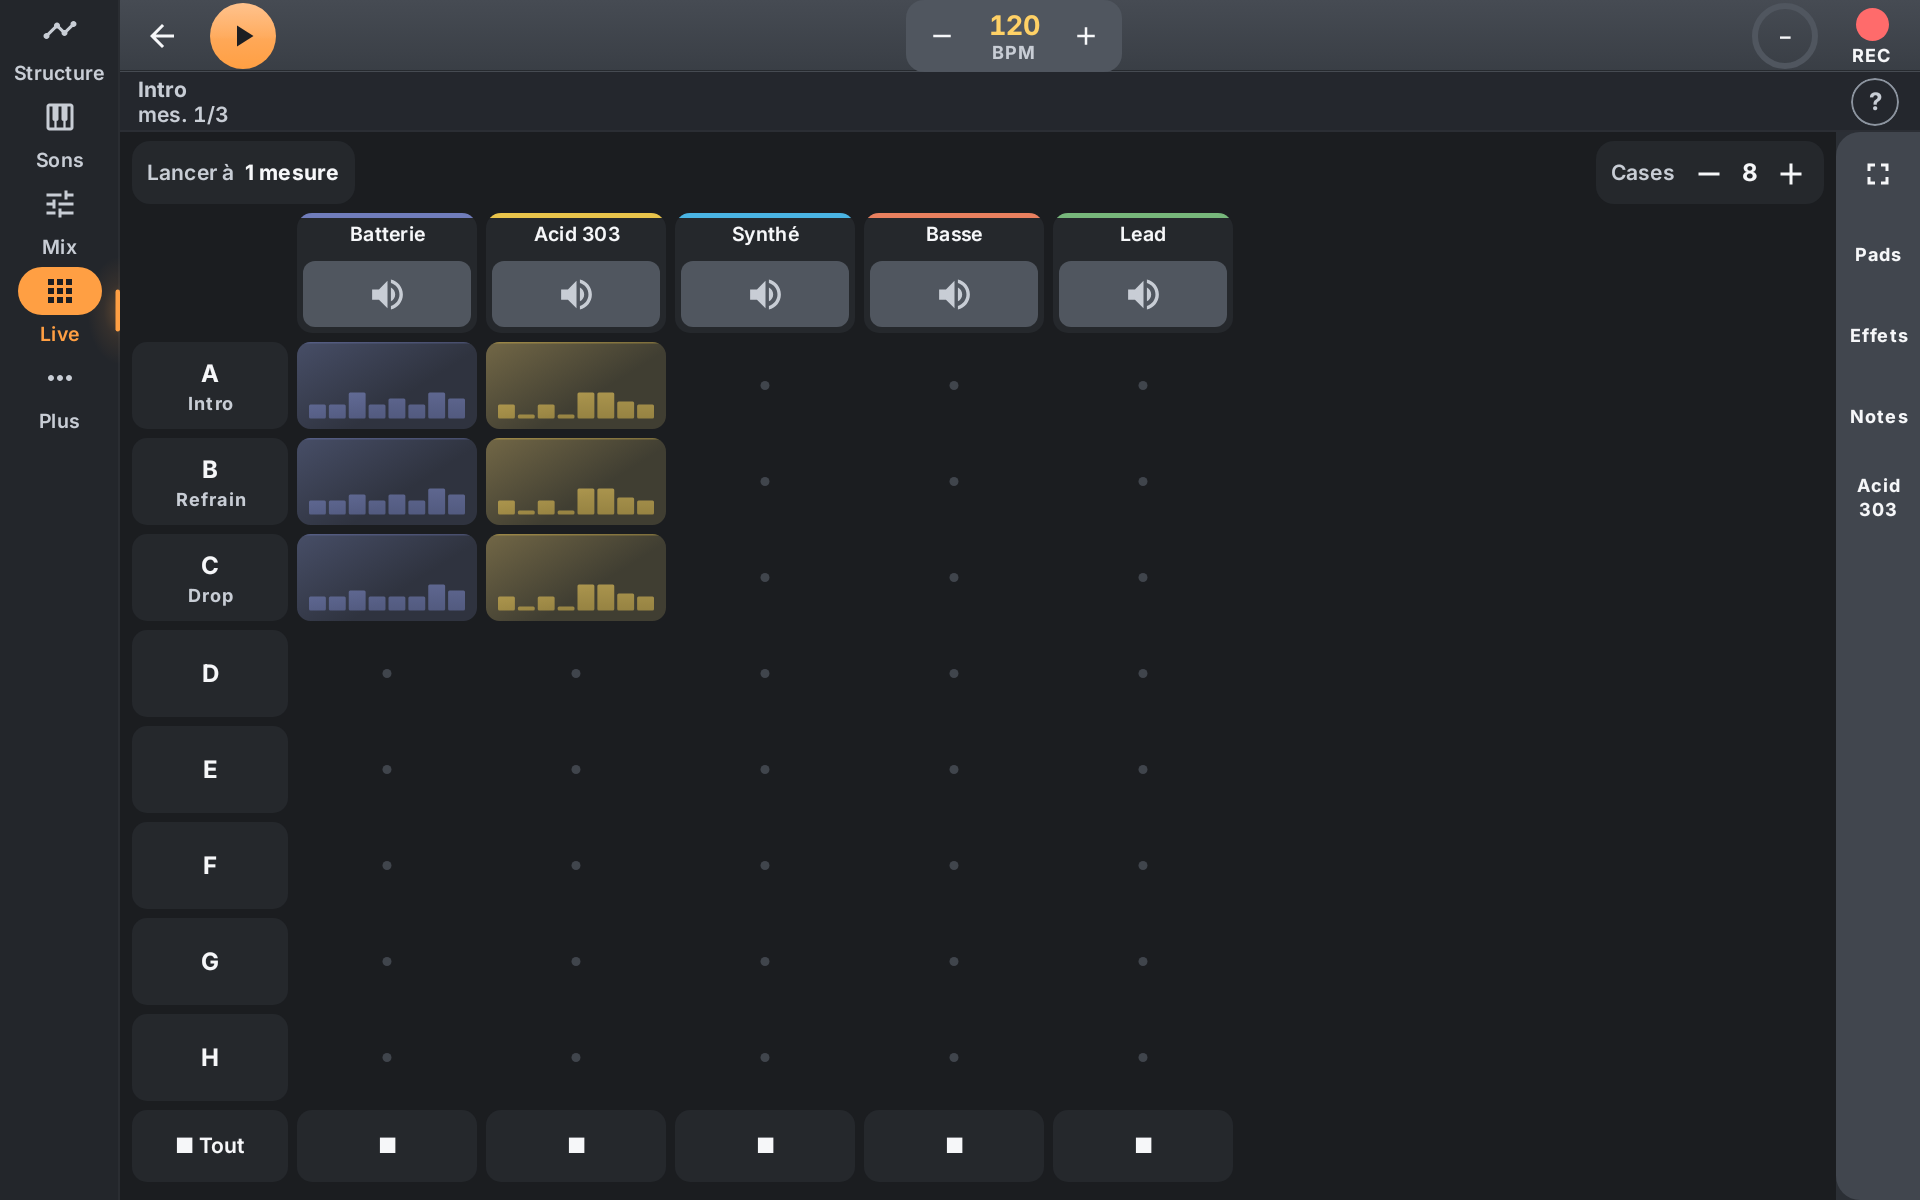
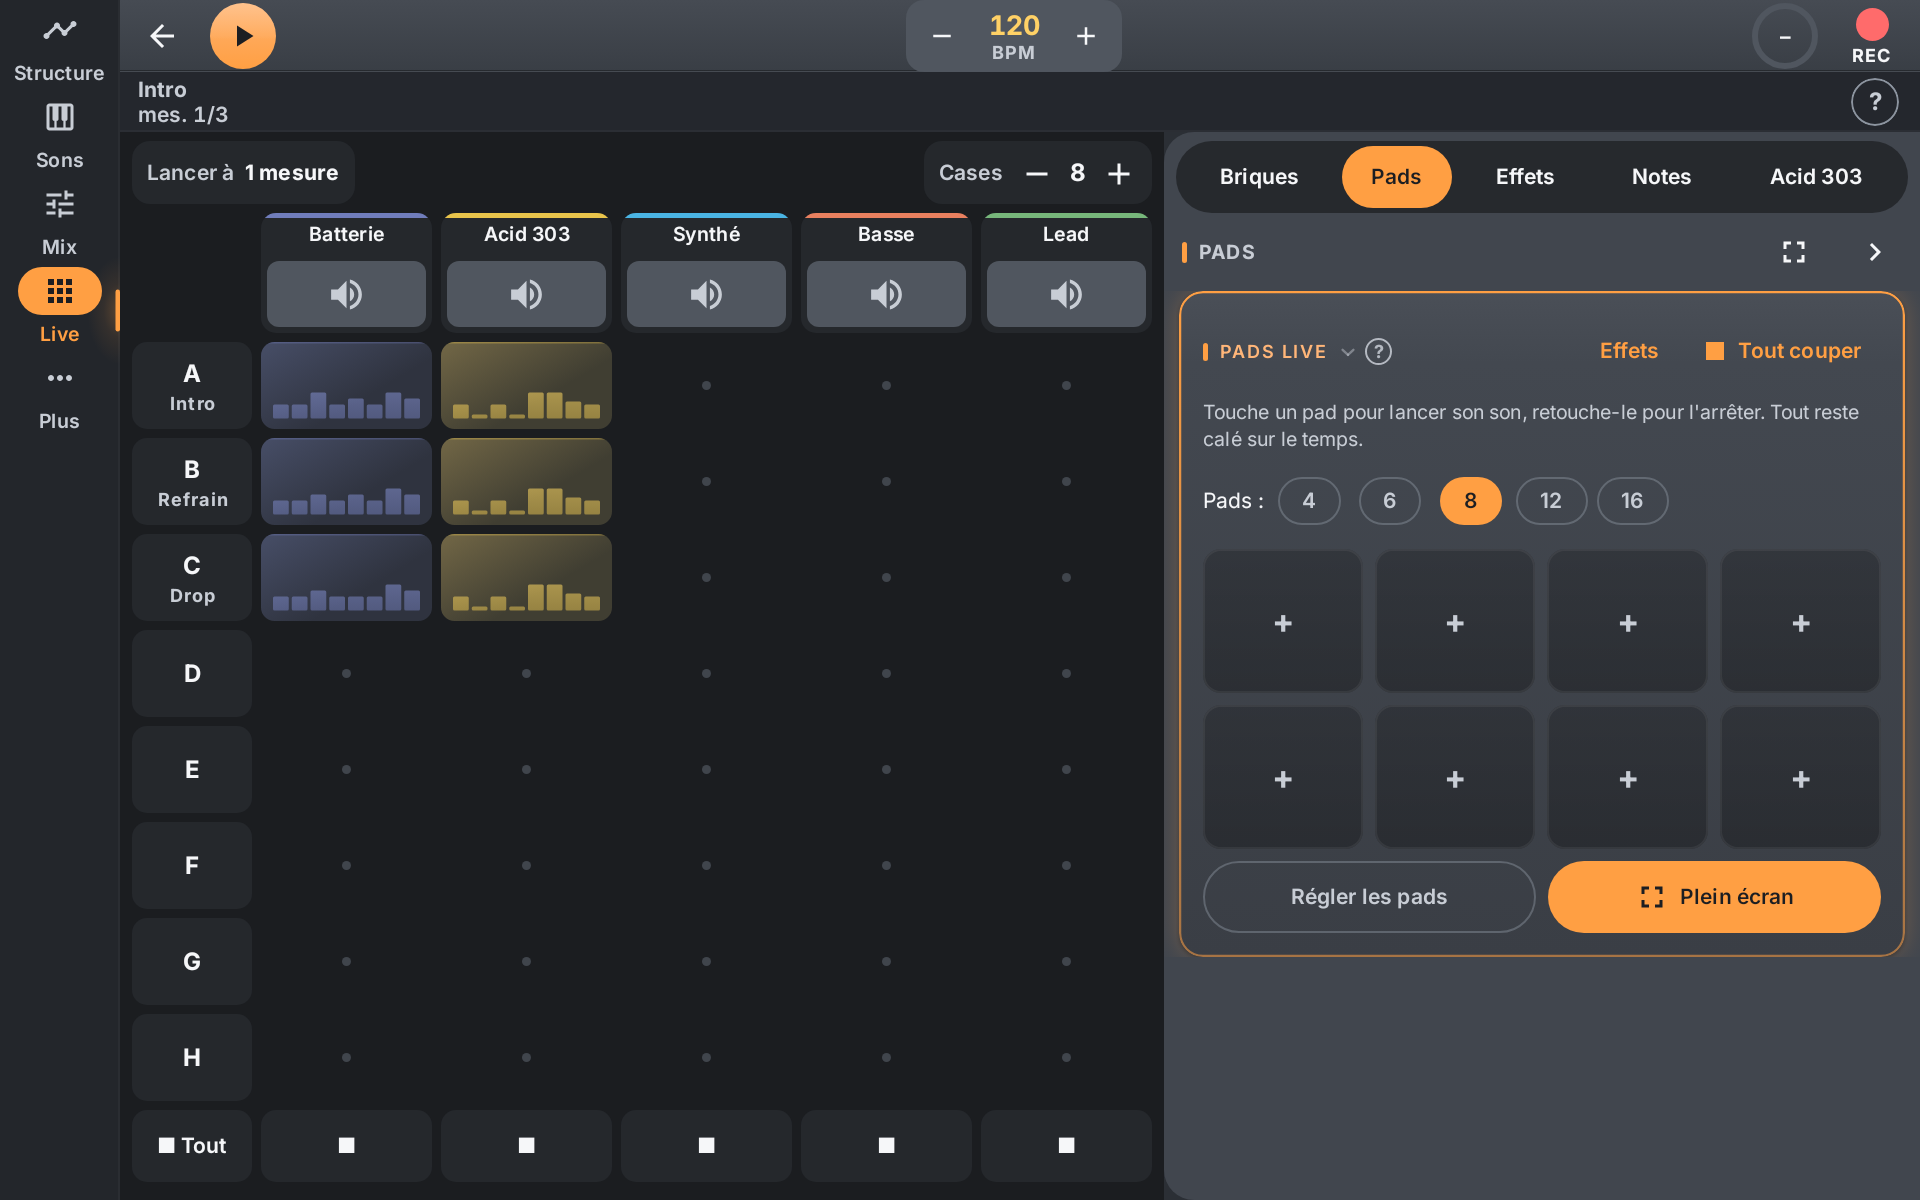
Side by side only from a medium height too (a phone lying down keeps its grid); live states polled from the native engine only
Claude-Session: https://claude.ai/code/session_01NqonxZBBysqqWBbnsC2VTP

diff --git a/app/src/main/java/com/pocketstudio/app/live/LiveScreen.kt b/app/src/main/java/com/pocketstudio/app/live/LiveScreen.kt
@@ -326,7 +326,8 @@ fun LiveScreen(
     val columns = liveColumnsOf(ui.project)
     // Lot D: an expanded width (a tablet lying down, a foldable open): the bricks and the pads side
     // by side, the pads beside the grid from the start (no pads view on the whole screen).
-    val expanded = liveExpanded(androidx.compose.ui.platform.LocalConfiguration.current.screenWidthDp.dp)
+    val screen = androidx.compose.ui.platform.LocalConfiguration.current
+    val expanded = liveExpanded(screen.screenWidthDp.dp, screen.screenHeightDp.dp)
     // The panel's page (kept while folded: ︿ opens it there again) and whether it is open.
     var tab by rememberSaveable {
         mutableStateOf(if (initialTab == LivePanelTab.Briques) (if (expanded && pads != null) LivePanelTab.Pads else LivePanelTab.Effets) else initialTab)
@@ -425,7 +426,7 @@ fun LiveScreen(
                 val wide = maxWidth >= 560.dp
                 val panelWidth = if (maxWidth >= 900.dp) 420.dp else 360.dp
                 val sidePanel = liveSidePanel(maxWidth)
-                if (liveExpanded(maxWidth)) {
+                if (liveExpanded(maxWidth, maxHeight + LIVE_BARS)) {
                     // Lot D: the bricks on the left, the pads (or the panel's other pages) on the right.
                     Row(Modifier.fillMaxSize().testTag("live_side_by_side")) {
                         LiveGrid(ui, columns, actions, gridMarks, Modifier.weight(1f).fillMaxHeight())
@@ -576,8 +577,14 @@ private fun PanelRail(ui: LiveScreenUi, onTab: (LivePanelTab) -> Unit, immersive
 /** The folded panel lying down. */
 private val RAIL_WIDTH = 56.dp
 
-/** Lot D: the Material « expanded » width class and up: the bricks and the pads side by side. */
-internal fun liveExpanded(width: Dp): Boolean = width >= com.pocketstudio.ui.EXPANDED_FROM
+/**
+ * Lot D: the Material « expanded » width class and up, on a screen at least of the medium height
+ * class (a phone lying down keeps its grid and its rail): the bricks and the pads side by side.
+ */
+internal fun liveExpanded(width: Dp, height: Dp): Boolean = com.pocketstudio.ui.sideBySide(width, height)
+
+/** The page's bars above the grid's box (the top bar, the strip), counted back for [liveExpanded]. */
+private val LIVE_BARS = 120.dp
 
 /** Side by side, the panel's width: the pads big enough to play with the fingers of one hand. */
 private fun liveSidePanel(width: Dp): Dp = (width * 0.42f).coerceIn(420.dp, 640.dp)

diff --git a/app/src/main/java/com/pocketstudio/app/remix/RemixScreen.kt b/app/src/main/java/com/pocketstudio/app/remix/RemixScreen.kt
@@ -205,7 +205,7 @@ class RemixActions(
 internal fun CutWithStructure(structure: (@Composable () -> Unit)?, cut: @Composable () -> Unit) {
     androidx.compose.foundation.layout.BoxWithConstraints(Modifier.fillMaxSize()) {
         val side = (maxWidth * 0.4f).coerceIn(360.dp, 560.dp)
-        if (structure != null && maxWidth >= com.pocketstudio.ui.EXPANDED_FROM) {
+        if (structure != null && com.pocketstudio.ui.sideBySide(maxWidth, maxHeight + 120.dp)) {
             androidx.compose.foundation.layout.Row(Modifier.fillMaxSize().testTag("cut_side_by_side")) {
                 androidx.compose.foundation.layout.Box(Modifier.weight(1f).fillMaxHeight()) { cut() }
                 androidx.compose.foundation.layout.Box(Modifier.width(side).fillMaxHeight().testTag("cut_structure")) { structure() }

diff --git a/app/src/test/java/com/pocketstudio/app/ui/ResizeWhilePlayingTest.kt b/app/src/test/java/com/pocketstudio/app/ui/ResizeWhilePlayingTest.kt
@@ -67,6 +67,10 @@ class ResizeWhilePlayingTest {
     fun setUp() {
         NativeEngine.sink = sink
         File(app.filesDir, "projects").deleteRecursively()
+        // The app as it first opens (no tab remembered by an earlier test).
+        listOf("nav", "missions", "settings", "next_steps", "song_ready", "share", "tools", "launch", "project_modes").forEach {
+            app.getSharedPreferences(it, 0).edit().clear().commit()
+        }
         val id = "resize-" + System.nanoTime()
         ProjectStore(File(app.filesDir, "projects")).save(id, Project(name = "Taille", drums = DrumPattern().toggle(0, 0).toggle(0, 8)).sanitized())
         CurrentProject.set(app, id)

diff --git a/ui-components/src/main/java/com/pocketstudio/ui/Adaptive.kt b/ui-components/src/main/java/com/pocketstudio/ui/Adaptive.kt
@@ -51,6 +51,15 @@ fun widthClass(width: Dp): Int = when {
     else -> 4
 }
 
+/** The Material medium height class (480 dp): under it, a phone lying down. */
+val MEDIUM_HEIGHT_FROM: Dp = 480.dp
+
+/**
+ * Lot D: a work screen's two halves side by side (Live: bricks and pads; the cut and the
+ * Structure): an expanded width on a screen that is not a phone lying down.
+ */
+fun sideBySide(width: Dp, height: Dp): Boolean = width >= EXPANDED_FROM && height >= MEDIUM_HEIGHT_FROM
+
 /** Whether a box of this size shows two panes side by side. */
 fun twoPanes(width: Dp, height: Dp): Boolean =
     width >= TWO_PANES_FROM || (width > height && width >= TWO_PANES_LYING_FROM)

diff --git a/app/src/main/java/com/pocketstudio/app/rhythm/RhythmViewModel.kt b/app/src/main/java/com/pocketstudio/app/rhythm/RhythmViewModel.kt
@@ -688,7 +688,8 @@ class RhythmViewModel(app: Application) : AndroidViewModel(app) {
 
     /** Polls the pads' lights about 30 times a second while their screen is visible. */
     suspend fun pollLiveStates() {
-        if (!NativeEngine.isAvailable) return
+        // The pads' states are the native engine's own (a test's command sink has none).
+        if (!NativeEngine.isNative) return
         val buf = IntArray(NativeEngine.LIVE_PADS)
         while (true) {
             NativeEngine.clipStates(buf)
